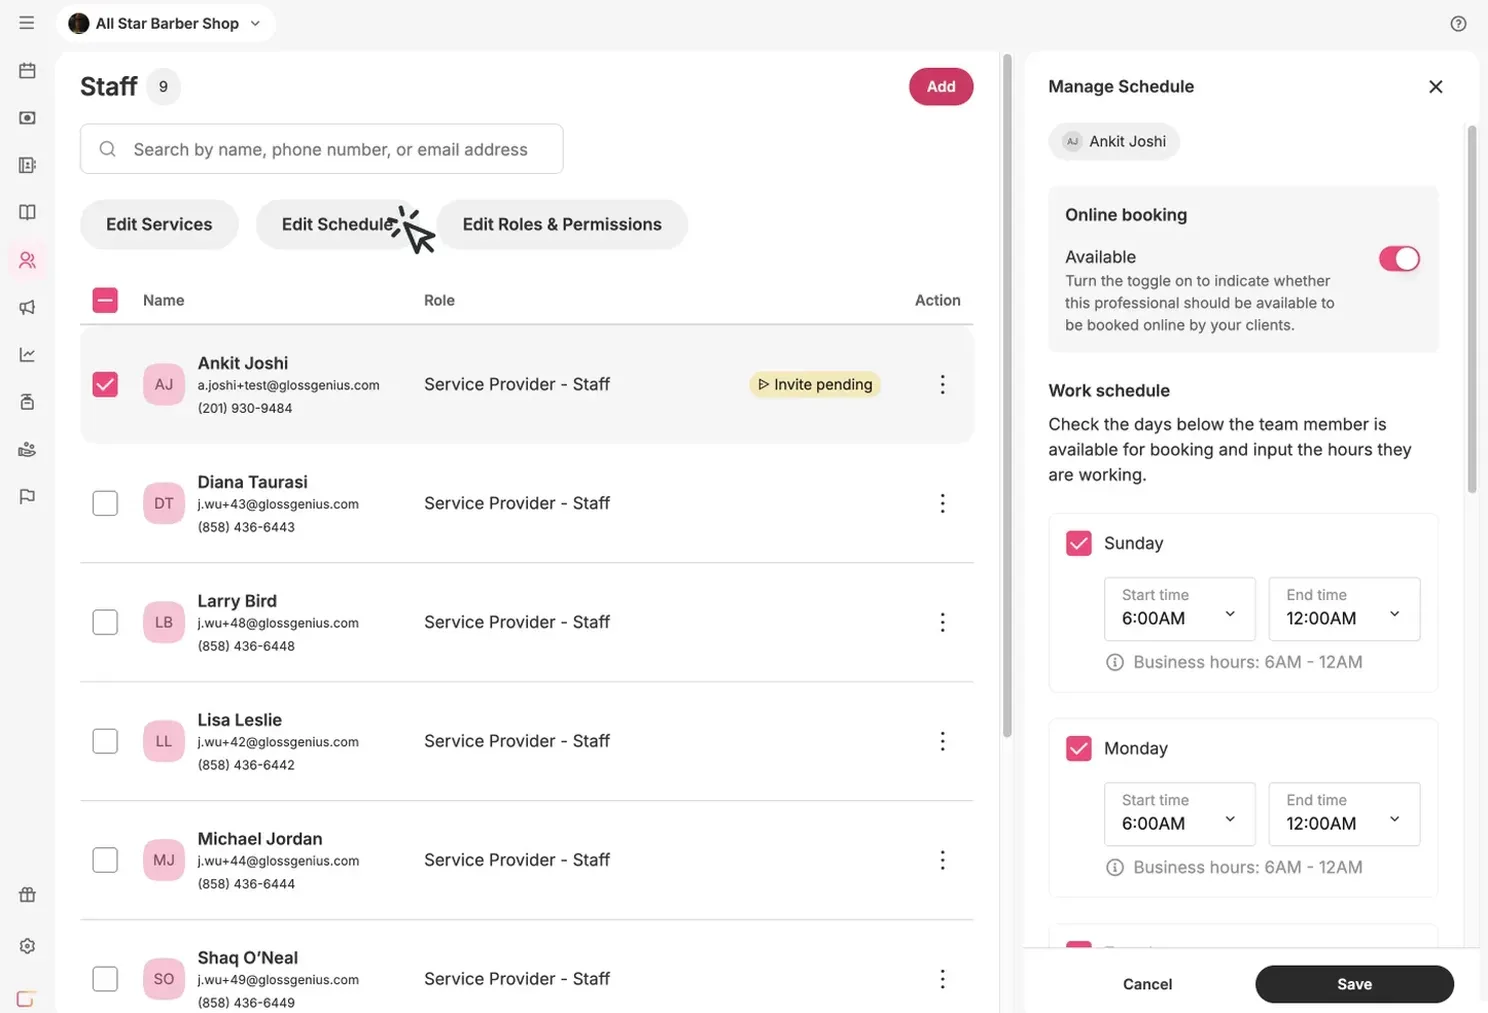
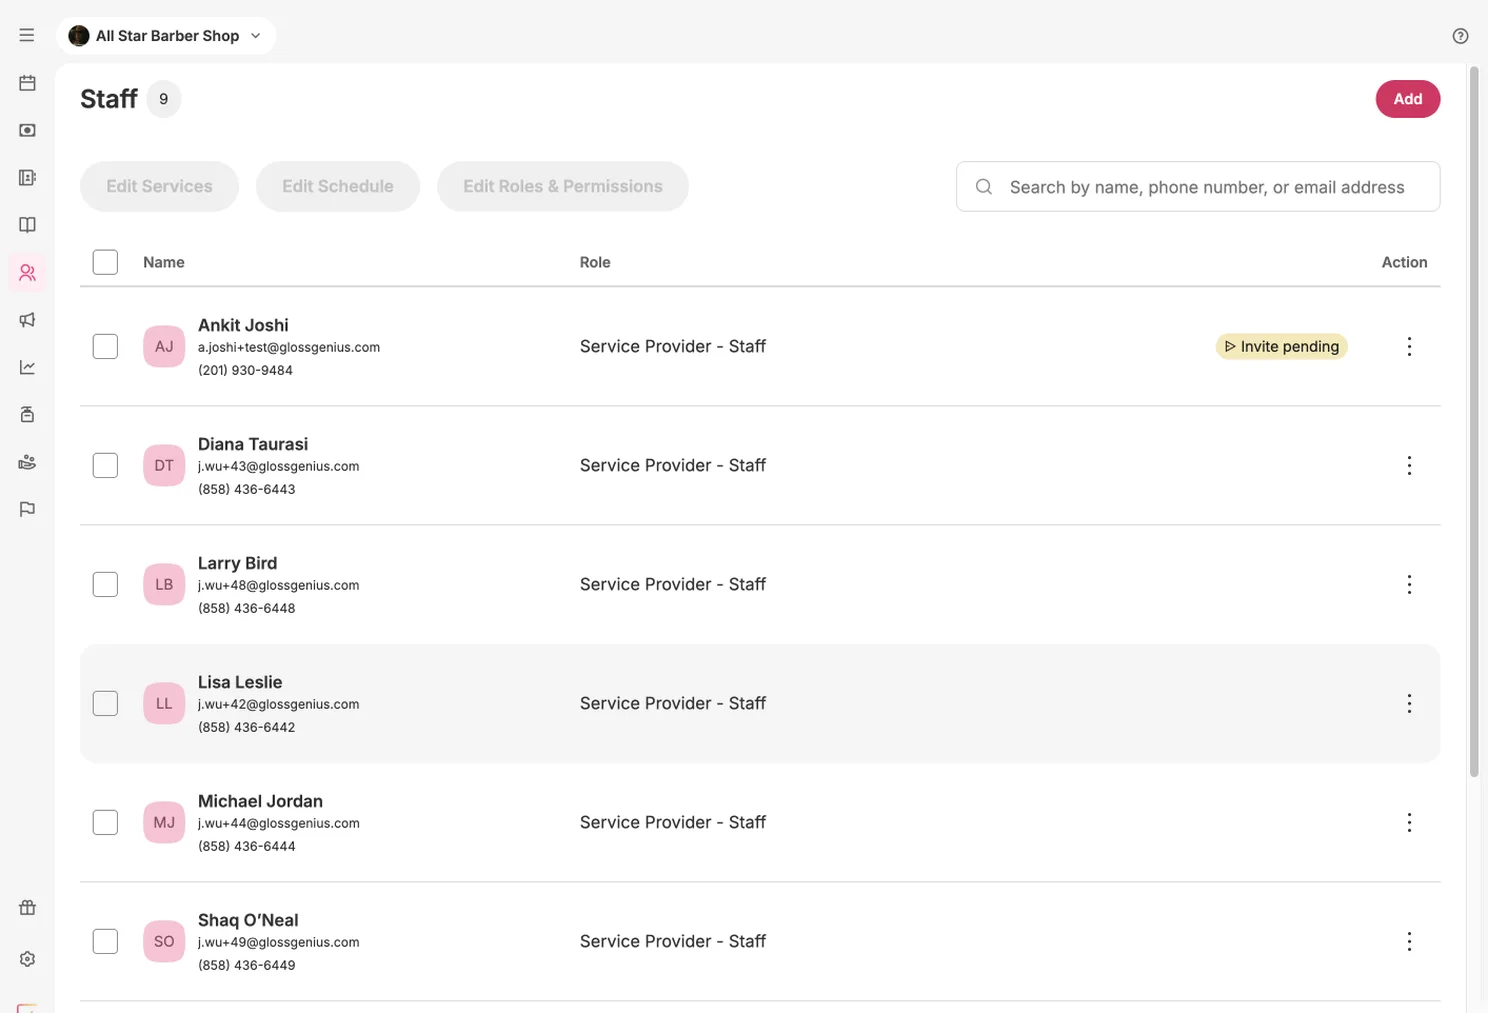
Staff: compare the plain staff lists, before and after, without panels
Claude-Session: https://claude.ai/code/session_01VfeLV8XZ819E3sTS2rx56B

diff --git a/case-study/index.html b/case-study/index.html
@@ -419,14 +419,14 @@ dialog form button{background:none;border:0;color:#C9CFCE;font:400 12px var(--mo
   <div class="big"><h2>Staff</h2></div>
 </div></section>
 
-<section class="slide screens" data-name="Schedules"><div class="stage">
-  <div class="head"><h3 class="title">Schedules</h3></div>
+<section class="slide screens" data-name="Staff list"><div class="stage">
+  <div class="head"><h3 class="title">Staff list</h3></div>
   <div class="content"><div class="morph">
     <div class="frame" data-zoom role="button" tabindex="0" aria-label="Enlarge screen" style="--r:1488/1013">
-      <div class="layer before"><img src="img/team-before.webp" alt="Before: Manage Schedule panel with one schedule per member" style="object-position:top left" loading="lazy" decoding="async"></div>
-      <div class="layer after"><img src="img/team-after.webp" alt="After: Edit schedule panel, set per location, on the Staff at [location] page" style="object-position:top left" loading="lazy" decoding="async"></div><i class="edge"></i>
+      <div class="layer before"><img src="img/team-before.webp" alt="Before: staff list for a single business" style="object-position:top left" loading="lazy" decoding="async"></div>
+      <div class="layer after"><img src="img/team-after.webp" alt="After: the same staff list, scoped to all locations, with a Locations column" style="object-position:top left" loading="lazy" decoding="async"></div><i class="edge"></i>
     </div>
-    <div class="bar"><p class="foot">Same task, now per location: who works where, and when.</p><div class="toggle"><button type="button" aria-pressed="true">Before</button><button type="button" aria-pressed="false">After</button><i></i></div></div>
+    <div class="bar"><p class="foot">Same list, now scoped to any location, showing where each person works.</p><div class="toggle"><button type="button" aria-pressed="true">Before</button><button type="button" aria-pressed="false">After</button><i></i></div></div>
   </div></div>
 </div></section>
 
